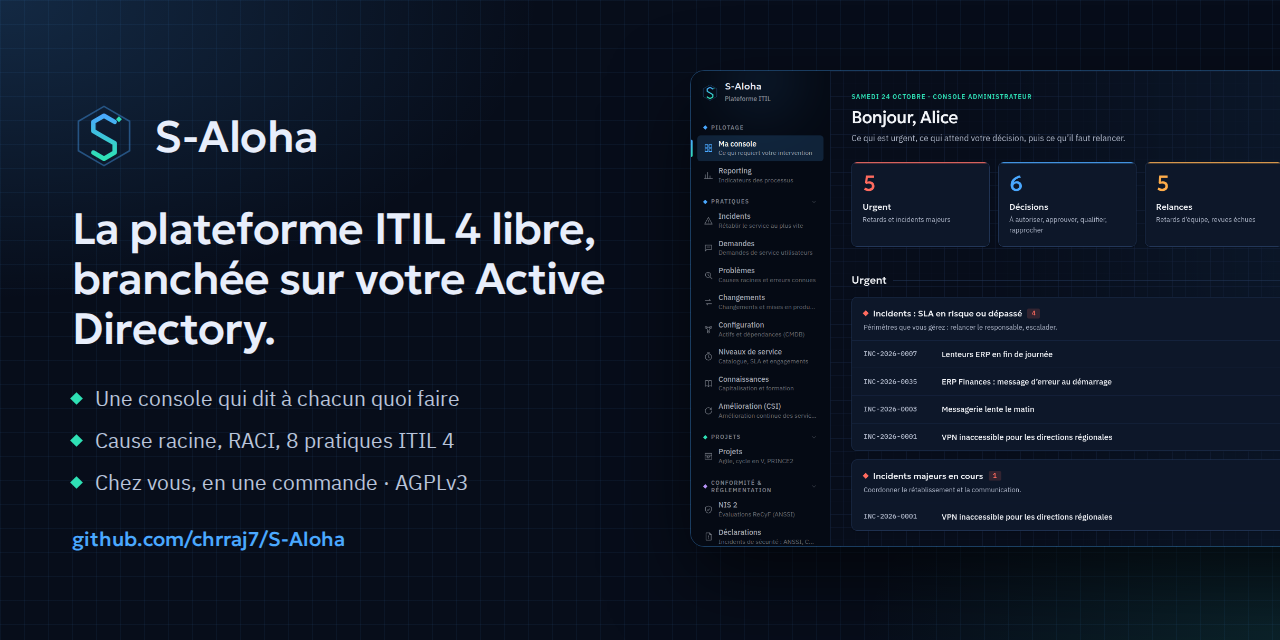
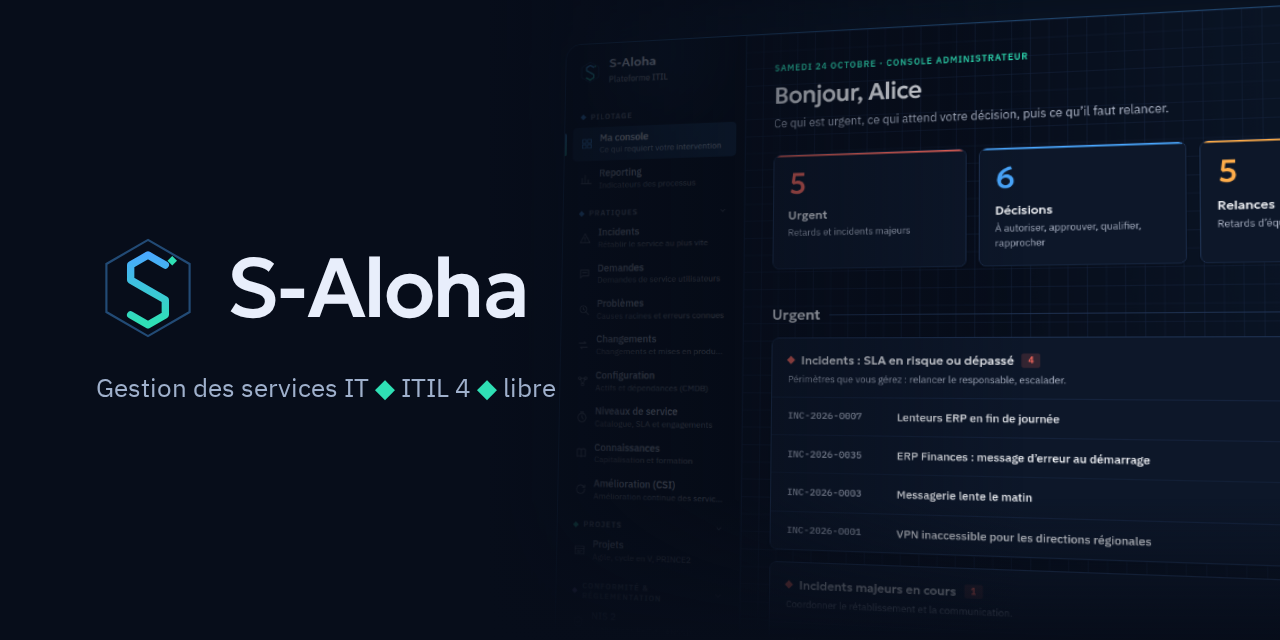
Image de partage redessinée : marque, une ligne, la console

diff --git a/docs/archives/journal-2026-10-24.md b/docs/archives/journal-2026-10-24.md
@@ -6,8 +6,9 @@
 
 - **Quoi** : les 19 captures de `docs/screenshots/` refaites sur le langage visuel v2
   (thème sombre par défaut, nouvel emblème), et l'image de partage `partage-1280x640.png`
-  recomposée : nouvel emblème, polices Geologica et IBM Plex, adresse du dépôt
-  `github.com/chrraj7/S-Aloha`.
+  redessinée, avec moins de texte, dans l'esprit des aperçus d'OpenCTI et d'iTop : l'emblème,
+  le nom et une seule ligne (« Gestion des services IT ◆ ITIL 4 ◆ libre ») à gauche, la
+  console en biais et en fondu à droite.
 - **Pourquoi** : interface changée par [ADR-0021](../decisions/adr-0021-langage-visuel-v2-sombre-et-nouvel-embleme.md) ;
   l'image de partage portait encore l'ancienne marque et l'ancienne adresse du dépôt.
 - **Comment** : instance du mode démonstration construite depuis la branche, données
